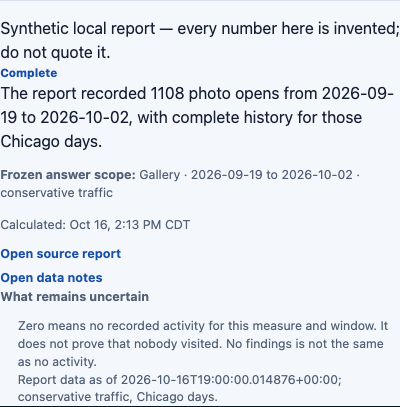
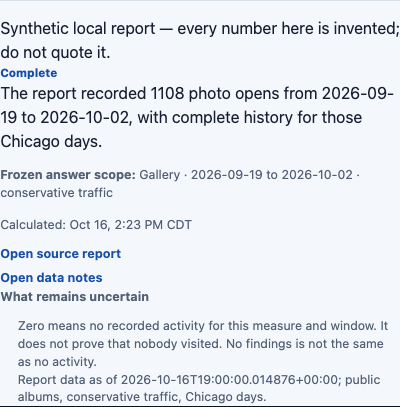
fix(analytics): withhold totals for excluded unlisted albums

Changed region(s): [[0.03, 0.9435, 0.66, 1.0], [0.3, 0.5307, 0.48, 0.5602], [0.87, 0.914, 0.96, 0.9435]]

diff --git a/src/lib/analytics/intelligence-assistant.ts b/src/lib/analytics/intelligence-assistant.ts
@@ -9,6 +9,7 @@ import { filterParams } from './photo-view';
 /** Read models from the linked reports, never counts inferred from missing findings. */
 export type QuestionReportEvidence = {
 	scope: IntelligenceScope;
+	unavailableReason?: string;
 	site?: { traffic: SiteTrafficResult | null; actions: SiteActionReport | null };
 	launch?: LaunchReadModel;
 	gallery?: {coverage: 'complete' | 'partial' | 'unavailable'; total: number | null; observedTotal: number; dataAsOf: string | null};
@@ -76,6 +77,10 @@ export function answerIntelligenceQuestion(scope: IntelligenceScope, question: s
 		const base = {scope, question, operation, findings: [], generatedAt, evidenceLinks: [href, '/analytics/data'], limitations: [config.limit]};
 		const unavailable = (summary: string): AssistantAnswer => ({...base, status: 'unavailable', summary});
 		if (!evidence || intelligenceScopeKey(evidence.scope) !== intelligenceScopeKey(scope)) return unavailable('The report totals are unavailable. Missing evidence is not zero.');
+		if (evidence.unavailableReason) {
+			if (scope.kind === 'gallery') base.evidenceLinks = [...scope.query.albumKeys.map(key => `/analytics/albums/${encodeURIComponent(key)}`), '/analytics/data'];
+			return unavailable(evidence.unavailableReason);
+		}
 		if (scope.kind === 'sites') {
 			const actions = evidence.site?.actions;
 			if (!actions?.available) return unavailable('The site’s own page-view evidence is unavailable, not zero.');
@@ -88,7 +93,7 @@ export function answerIntelligenceQuestion(scope: IntelligenceScope, question: s
 		if (scope.kind === 'gallery') {
 			const gallery = evidence.gallery;
 			if (!gallery || gallery.coverage === 'unavailable') return unavailable('The selected gallery evidence is unavailable, not zero.');
-			if (gallery.dataAsOf) base.limitations.push(`Report data as of ${gallery.dataAsOf}; ${scope.query.traffic} traffic, Chicago days.`);
+			if (gallery.dataAsOf) base.limitations.push(`Report data as of ${gallery.dataAsOf}; public albums, ${scope.query.traffic} traffic, Chicago days.`);
 			if (gallery.coverage === 'partial') return unavailable('This window has missing history. Its full total is unknown, not zero.');
 			if (gallery.total === null || !gallery.dataAsOf || chicagoDate(gallery.dataAsOf) <= scope.query.end) return unavailable('The report has not confirmed a complete total through the end of this window. This is not zero.');
 			const units = scope.query.measure === 'downloads' ? 'download requests' : scope.query.measure.replaceAll('_', ' ');

diff --git a/tests/analytics/intelligence-questions.spec.ts b/tests/analytics/intelligence-questions.spec.ts
@@ -53,6 +53,32 @@ test('owner answers match the underlying gallery report and do not queue jobs', 
 	expect(after.count).toBe(before.count);
 });
 
+test('excluding an unlisted album never becomes a public-only false zero', async ({request, baseURL}) => {
+	test.skip(!existsSync(cookiePath) || !existsSync(runtimePath), 'requires the local synthetic owner');
+	const runtime = JSON.parse(readFileSync(runtimePath, 'utf8'));
+	expect(new URL(runtime.API_URL).hostname).toBe('127.0.0.1');
+	const client = createClient(runtime.API_URL, runtime.SERVICE_ROLE_KEY, {auth: {persistSession: false, autoRefreshToken: false}});
+	const privateScope = {...scope, query: {...scope.query, albumKeys: ['beta'], measure: 'album_opens'}};
+	const args = {p_start: scope.query.start, p_end: scope.query.end, p_measure: 'album_opens', p_scope: 'album', p_album_keys: ['beta'], p_traffic: 'conservative', p_compare: 'none', p_include_today: false, p_photo_page: 0, p_photo_page_size: 1, p_photo_rank: 'popular', p_export: false};
+	const publicReport = await client.rpc('analytics_read_scheduled_gallery_report', {...args, p_public_only: true});
+	const ownerReport = await client.rpc('analytics_read_scheduled_gallery_report', {...args, p_public_only: false});
+	expect(publicReport.error).toBeNull();
+	expect(ownerReport.error).toBeNull();
+	expect(publicReport.data.total).toBe(0);
+	expect(ownerReport.data.coverage).toBe('complete');
+	expect(ownerReport.data.total).toBeGreaterThan(0);
+	const jar = JSON.parse(readFileSync(cookiePath, 'utf8')) as Array<{name: string; value: string}>;
+	const response = await request.post(endpoint, {headers: {origin: new URL(baseURL!).origin, cookie: jar.map(c => `${c.name}=${c.value}`).join('; ')}, data: {scope: privateScope, question}});
+	expect(response.status()).toBe(200);
+	const answer = await response.json();
+	expect(answer.status).toBe('unavailable');
+	expect(answer.summary).toContain('unlisted');
+	expect(answer.summary).not.toContain('recorded 0');
+	expect(answer.evidenceLinks).toContain('/analytics/albums/beta');
+	const anonymous = await request.post(endpoint, {headers: {origin: new URL(baseURL!).origin}, data: {scope: privateScope, question}});
+	expect(anonymous.status()).toBe(403);
+});
+
 for (const width of [1280, 390]) test(`real answer and source links render at ${width}px`, async ({page}) => {
 	test.skip(!existsSync(cookiePath), 'requires the local synthetic owner');
 	await page.setViewportSize({width, height: 900});

diff --git a/src/lib/analytics/intelligence-question-report.server.ts b/src/lib/analytics/intelligence-question-report.server.ts
@@ -26,6 +26,14 @@ export async function loadQuestionReportEvidence(
 			const albumKey = questionAlbumKey(scope);
 			if (albumKey) evidence.launch = await fetchLaunchReadModel(client, {albumKey, days: LAUNCH_DAYS, traffic: 'conservative', publicOnly: true, photoLimit: 1});
 		} else if (operation === 'report_coverage' && scope.kind === 'gallery') {
+			if (scope.query.scope !== 'all' && scope.query.albumKeys.length) {
+				const {data: settings, error} = await client.from('album_settings').select('album_key, visibility').in('album_key', scope.query.albumKeys);
+				if (error) return evidence;
+				if (settings?.some(row => row.visibility === 'unlisted')) {
+					evidence.unavailableReason = 'This selection includes an unlisted album. Coverage answers currently use public-album totals, so this answer is unavailable; exclusion is not zero activity. Read the owner-visible album report for its activity.';
+					return evidence;
+				}
+			}
 			const report = await fetchScheduledGalleryReport(client, scope.query, {publicOnly: true, includeToday: false, photoWindow: {page: 0, pageSize: 1, rank: 'popular'}});
 			evidence.gallery = {coverage: report.coverage, total: report.total, observedTotal: report.observedTotal, dataAsOf: report.dataAsOf};
 		}

diff --git a/docs/ANALYTICS_BUILD.md b/docs/ANALYTICS_BUILD.md
@@ -138,8 +138,8 @@ External Cloudflare reconciliation remains unresolved. The live match above is b
 
 The existing owner question field now explains the difference between Cloudflare page loads and the site's own page views, compares photo opens at the same age after publication, explains download requests, and distinguishes zero from missing history or unavailable evidence. The four operations read existing reports without queuing jobs or storing question text. New questions require owner access; public readers can still use the existing explanations of visible findings.
 
-Count comparisons use the Data page's definitions and require All sections. Same-age answers use the album report's first three or seven complete Chicago days and the median of earlier public launches. They exclude incomplete peers and identify recovered publication dates. They do not infer similar event types, unique people, completed transfers, or causes. Coverage answers use source totals and cutoffs; an empty findings list never establishes zero. Answer links preserve the requested filters and open the source report or Data notes.
+Count comparisons use the Data page's definitions and require All sections. Same-age answers use the album report's first three or seven complete Chicago days and the median of earlier public launches. They exclude incomplete peers and identify recovered publication dates. They do not infer similar event types, unique people, completed transfers, or causes. Coverage answers use source totals and cutoffs; an empty findings list never establishes zero. A selected unlisted album makes the public-total coverage answer unavailable and links to its owner-visible album report, rather than treating exclusion as zero. Answer links preserve the requested filters and open the source report or Data notes.
 
-Verification: the assistant and report-link regression tests run in `analytics:contract:test`. `tests/analytics/intelligence-questions.spec.ts` exercises the real authenticated endpoint, anonymous and cross-origin rejection, unchanged request-queue counts, and desktop/phone rendering. Only the panel's saved GET snapshot is synthetic in the rendered tests; question POSTs reach the local server. The existing synthetic stack was read without resetting it.
+Verification: the assistant and report-link regression tests run in `analytics:contract:test`. `tests/analytics/intelligence-questions.spec.ts` exercises the real authenticated endpoint, anonymous and cross-origin rejection, unchanged request-queue counts, the unlisted-album false-zero regression, and desktop/phone rendering. Only the panel's saved GET snapshot is synthetic in the rendered tests; question POSTs reach the local server. The existing synthetic stack was read without resetting it.
 
 A read-only production replay at 2026-10-16 19:13 UTC matched Re7kho's live album table: 931 first-week photo opens, above a median of 125 across five earlier public launches. The selected October 9–15 gallery report returned 27 photo opens with complete coverage. The site's own Data report showed 124 page views. Cloudflare was unavailable in the live Data report, and its read timed out in the replay, so the count answer correctly stayed unavailable and did not invent a zero or reuse the earlier 223-page-load observation. These checks used the local handler over production report readers; they do not claim an authenticated production question was submitted.
